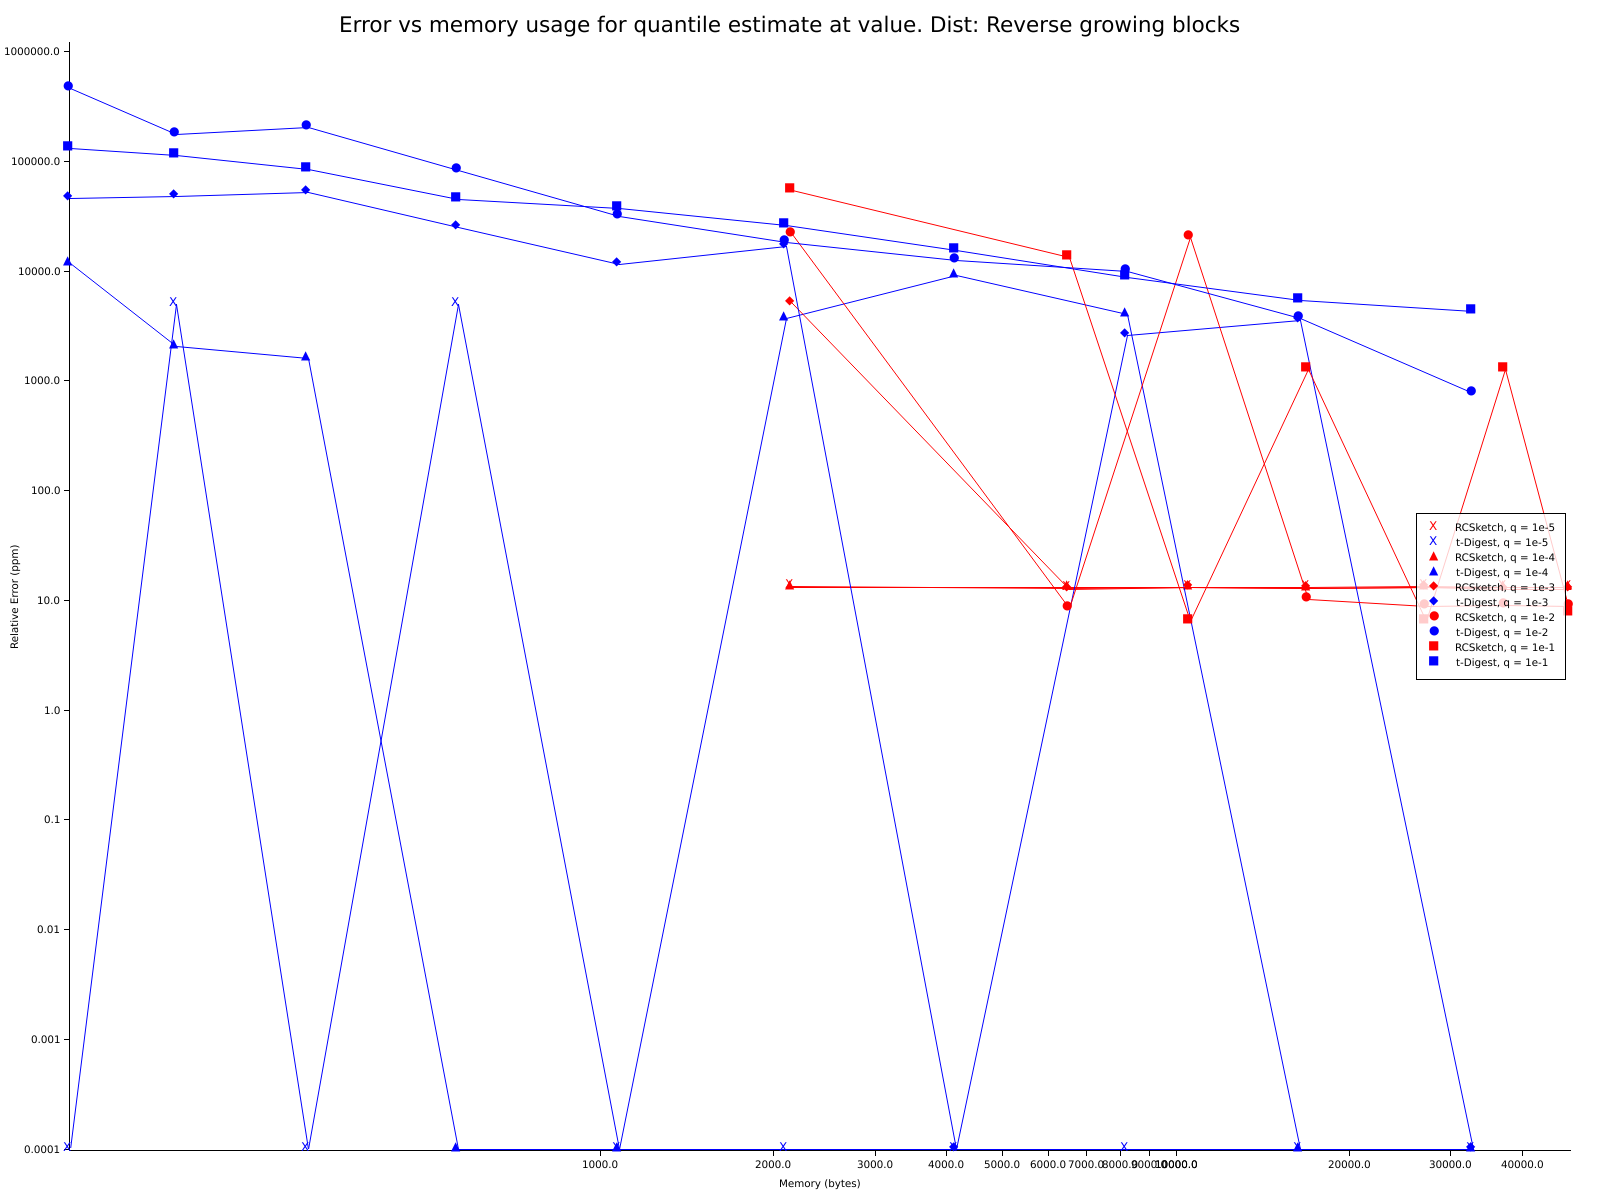
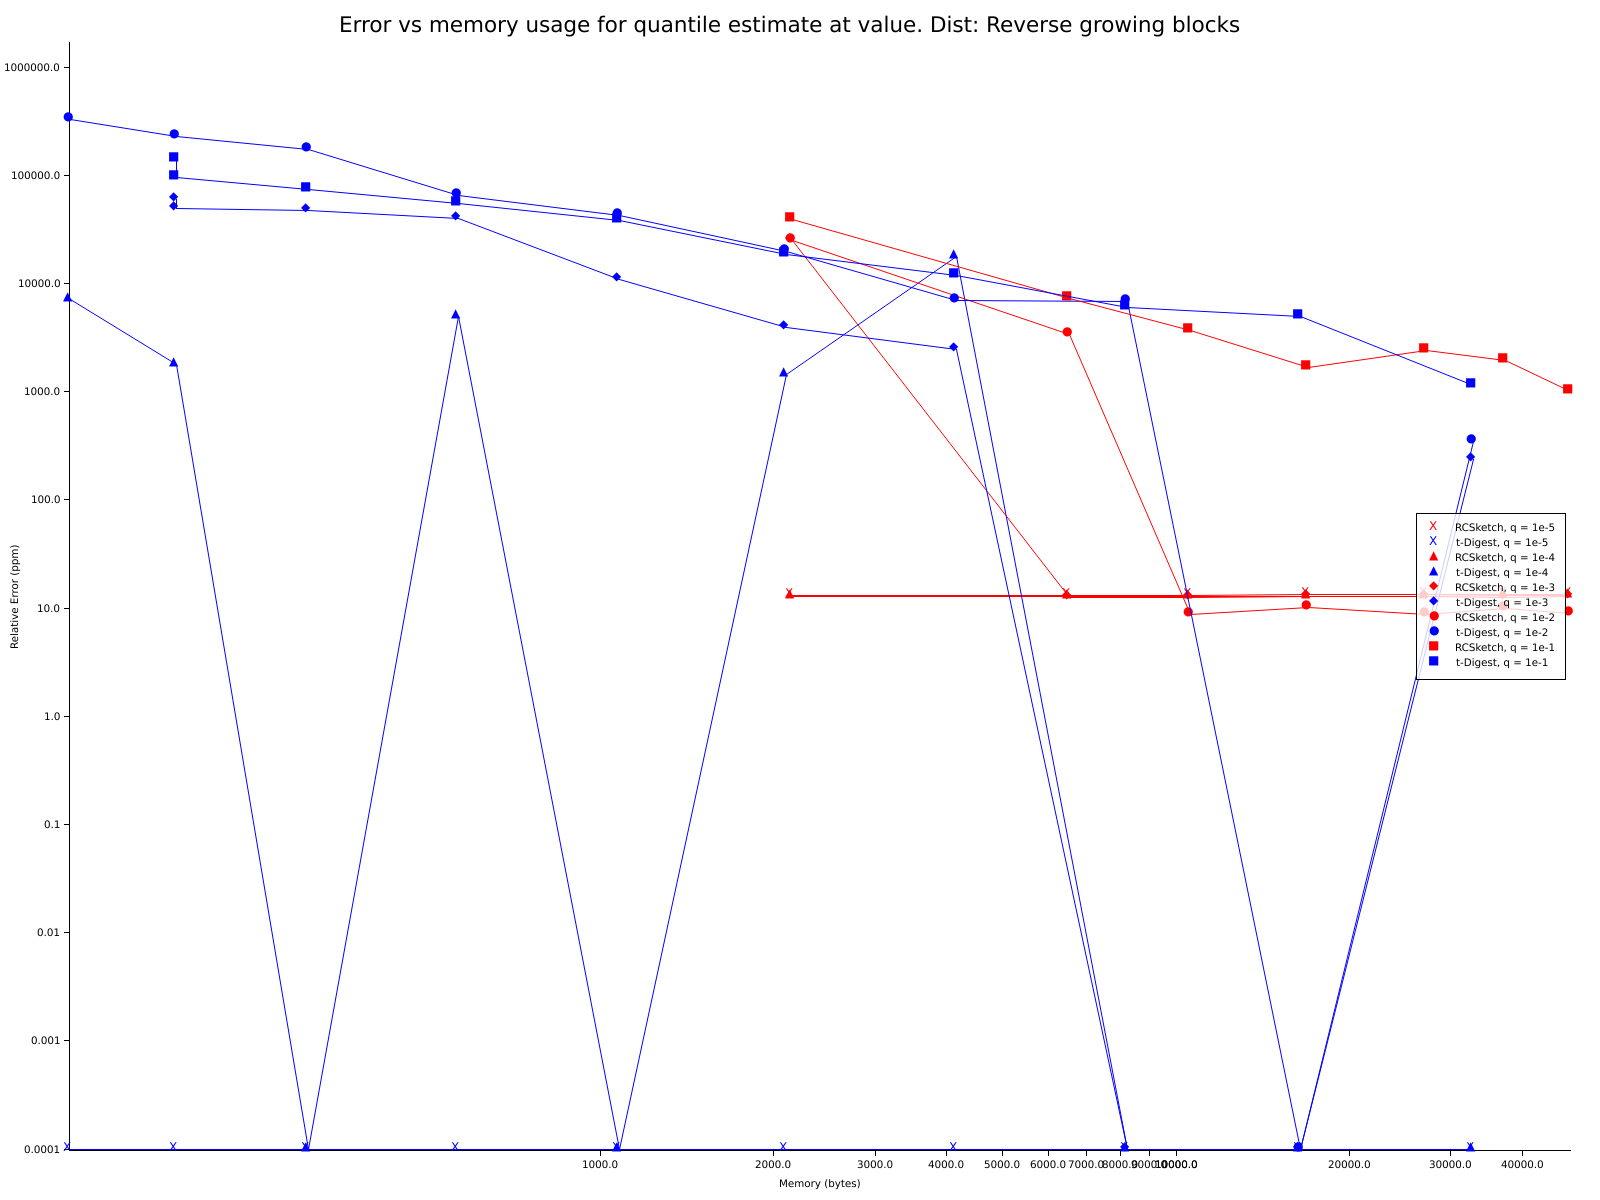
Test more distributions

diff --git a/examples/accuracy.rs b/examples/accuracy.rs
@@ -3,7 +3,7 @@ use approximate_quantiles::t_digest::{scale_functions, t_digest::TDigest};
 use approximate_quantiles::traits::{Digest, OwnedSize};
 use approximate_quantiles::util::linear_digest::LinearDigest;
 use approximate_quantiles::util::{
-    gen_reverse_growing_blocks_vec, gen_uniform_exp_vec, gen_uniform_tan_vec, gen_uniform_vec,
+    gen_growing_blocks_vec, gen_uniform_exp_vec, gen_uniform_tan_vec, gen_uniform_vec,
     opt_accuracy_parameter, sample_digest_accuracy,
 };
 use num_traits::{Float, NumAssignOps};
@@ -98,7 +98,7 @@ where
         })
         .flatten()
         .collect();
-    println!("{:?}", y_values);
+    // println!("{:?}", y_values);
     let y_values_range = fitting_range(y_values.iter());
     let x_values: Vec<f64> = series[0..1]
         .iter()
@@ -108,7 +108,7 @@ where
 
     // println!("{} {} {} {}", min_x, max_x, min_y, max_y);
     // let mut colors = (0..).map(Palette99::pick);
-    println!("{:?}", &y_values_range);
+    // println!("{:?}", &y_values_range);
     let mut chart = ChartBuilder::on(&root)
         .margin(15)
         .margin_right(30)
@@ -162,7 +162,7 @@ pub fn plot_line_graph<T>(
     show_error_bars: bool,
 ) -> Result<(), Box<dyn Error>>
 where
-    T: Float,
+    T: Float + std::fmt::Debug,
 {
     let root = BitMapBackend::new(output_path, (1600, 1200)).into_drawing_area();
     let marker_size = 14;
@@ -279,6 +279,10 @@ where
             })
             .collect();
 
+        data_stats
+            .iter()
+            .for_each(|ds| println!("{} {} {:?} {:?}", title, s.name, ds.x, ds.y_mean));
+
         let line_element = chart
             .draw_series(LineSeries::new(
                 data_stats.iter().map(|data_stat| {
@@ -369,13 +373,31 @@ where
 {
     vec![
         (
-            "Reverse growing blocks".to_string(),
-            Box::new(|input_size| gen_reverse_growing_blocks_vec(input_size)),
+            "Growing blocks".to_string(),
+            Box::new(|input_size| gen_growing_blocks_vec(input_size)),
         ),
         (
             "Reverse exponential".to_string(),
             Box::new(|input_size| gen_uniform_exp_vec(input_size, F::from(1.0).unwrap())),
         ),
+        (
+            "Uniform".to_string(),
+            Box::new(|input_size| gen_uniform_vec(input_size)),
+        ),
+        (
+            "Tan".to_string(),
+            Box::new(|input_size| gen_uniform_tan_vec(input_size)),
+        ),
+        // Made no impact
+        // (
+        //     "Uniform blocks".to_string(),
+        //     Box::new(|input_size| {
+        //         gen_uniform_vec::<F>(input_size)
+        //             .into_iter()
+        //             .map(|x| (x * F::from(1_000_000.0).unwrap()) / F::from(1_000.0).unwrap())
+        //             .collect()
+        //     }),
+        // ),
     ]
 }
 
@@ -493,6 +515,13 @@ where
     let test_func =
         |quantile: T| move |digest: &mut dyn Digest<T>| digest.est_value_at_quantile(quantile);
 
+    let error_func = |a, b| {
+        T::max(
+            T::from(1.0).unwrap(),
+            relative_error(a, b) * T::from(1e6).unwrap(),
+        )
+    };
+
     let create_rcsketch = |accuracy_param: T| {
         move |dataset: &[T]| {
             let mut digest = RCSketch::new(dataset.len(), accuracy_param.to_usize().unwrap());
@@ -545,7 +574,7 @@ where
                 create_rcsketch(rcsketch_param),
                 || dataset_func(input_size),
                 test_func(T::from(*i).unwrap()),
-                |a, b| relative_error(a, b) * T::from(1e6).unwrap(),
+                error_func,
                 100,
             )
             .unwrap();
@@ -565,7 +594,7 @@ where
                 create_compact_avg_rcsketch(rcsketch_param),
                 || dataset_func(input_size),
                 test_func(T::from(*i).unwrap()),
-                |a, b| relative_error(a, b) * T::from(1e6).unwrap(),
+                error_func,
                 100,
             )
             .unwrap();
@@ -585,7 +614,7 @@ where
                 create_t_digest(t_digest_param),
                 || dataset_func(input_size),
                 test_func(T::from(*i).unwrap()),
-                |a, b| relative_error(a, b) * T::from(1e6).unwrap(),
+                error_func,
                 100,
             )
             .unwrap();
@@ -622,6 +651,13 @@ where
 {
     let test_func =
         |value: T| move |digest: &mut dyn Digest<T>| digest.est_quantile_at_value(value);
+
+    let error_func = |a, b| {
+        T::max(
+            T::from(1.0).unwrap(),
+            relative_error(a, b) * T::from(1e6).unwrap(),
+        )
+    };
 
     let create_rcsketch = |accuracy_param: T| {
         move |dataset: &[T]| {
@@ -685,7 +721,7 @@ where
                 create_rcsketch(rcsketch_param),
                 || dataset_func(input_size),
                 test_func(T::from(*i).unwrap()),
-                |a, b| relative_error(a, b) * T::from(1e6).unwrap(),
+                error_func,
                 100,
             )
             .unwrap();
@@ -705,7 +741,7 @@ where
                 create_compact_avg_rcsketch(rcsketch_param),
                 || dataset_func(input_size),
                 test_func(T::from(*i).unwrap()),
-                |a, b| relative_error(a, b) * T::from(1e6).unwrap(),
+                error_func,
                 100,
             )
             .unwrap();
@@ -725,7 +761,7 @@ where
                 create_t_digest(t_digest_param),
                 || dataset_func(input_size),
                 test_func(T::from(*i).unwrap()),
-                |a, b| relative_error(a, b) * T::from(1e6).unwrap(),
+                error_func,
                 100,
             )
             .unwrap();
@@ -761,6 +797,13 @@ where
 {
     let test_func =
         |value: T| move |digest: &mut dyn Digest<T>| digest.est_value_at_quantile(value);
+
+    let error_func = |a, b| {
+        T::max(
+            T::from(1.0).unwrap(),
+            relative_error(a, b) * T::from(1e6).unwrap(),
+        )
+    };
 
     let create_rcsketch = |accuracy_param: T| {
         move |dataset: &[T]| {
@@ -824,7 +867,7 @@ where
                     create_rcsketch(*rcsketch_param),
                     || dataset_func(input_size),
                     test_func(*quantile),
-                    |a, b| relative_error(a, b) * T::from(1e6).unwrap(),
+                    error_func,
                     100,
                 )
                 .unwrap();
@@ -847,7 +890,7 @@ where
                     create_t_digest(*t_digest_param),
                     || dataset_func(input_size),
                     test_func(*quantile),
-                    |a, b| relative_error(a, b) * T::from(1e6).unwrap(),
+                    error_func,
                     100,
                 )
                 .unwrap();
@@ -889,6 +932,13 @@ where
     let test_func =
         |value: T| move |digest: &mut dyn Digest<T>| digest.est_value_at_quantile(value);
 
+    let error_func = |a, b| {
+        T::max(
+            T::from(1.0).unwrap(),
+            relative_error(a, b) * T::from(1e6).unwrap(),
+        )
+    };
+
     let create_rcsketch = |accuracy_param: T| {
         move |dataset: &[T]| {
             let mut digest = RCSketch::new(dataset.len(), accuracy_param.to_usize().unwrap());
@@ -928,7 +978,7 @@ where
     //    let input_sizes = [10_000, 100_000, 1_000_000];
     let input_sizes = [
         10_000,
-        200_000,
+        20_000,
         40_000,
         60_000,
         80_000,
@@ -948,6 +998,9 @@ where
         60_000_000,
         80_000_000,
         100_000_000,
+        200_000_000,
+        300_000_000,
+        400_000_000,
     ];
 
     // let rc_sketch_mem_size = |input_size| {
@@ -968,8 +1021,8 @@ where
                     create_rcsketch(rcsketch_param),
                     || dataset_func(*input_size),
                     test_func(*quantile),
-                    |a, b| relative_error(a, b) * T::from(1e6).unwrap(),
-                    100,
+                    error_func,
+                    10,
                 )
                 .unwrap();
                 s.push((T::from(*input_size).unwrap(), accuracy_measurements));
@@ -988,8 +1041,8 @@ where
                     create_t_digest(t_digest_param),
                     || dataset_func(*input_size),
                     test_func(*quantile),
-                    |a, b| relative_error(a, b) * T::from(1e6).unwrap(),
-                    100,
+                    error_func,
+                    10,
                 )
                 .unwrap();
                 s.push((T::from(*input_size).unwrap(), accuracy_measurements));
@@ -1022,7 +1075,7 @@ where
 
 fn plot_memory_usage_against_compression_parameter<T>()
 where
-    T: Float + Sync + Send + NumAssignOps,
+    T: Float + Sync + Send + NumAssignOps + std::fmt::Debug,
 {
     let create_rcsketch = |dataset: &[T], param: T| {
         let mut digest = RCSketch::new(dataset.len(), param.to_usize().unwrap());
@@ -1115,7 +1168,7 @@ where
 
 fn plot_memory_usage_against_input_size<T>()
 where
-    T: Float + Sync + Send + NumAssignOps,
+    T: Float + Sync + Send + NumAssignOps + std::fmt::Debug,
 {
     let create_rcsketch = |dataset: &[T], param: T| {
         let mut digest = RCSketch::new(dataset.len(), param.to_usize().unwrap());
@@ -1218,13 +1271,13 @@ where
 }
 
 fn main() {
-    value_error_against_quantile::<f32>();
-    quantile_error_against_value::<f32>();
+    // value_error_against_quantile::<f32>();
+    // quantile_error_against_value::<f32>();
     // determine_required_parameter::<f32>();
     // determine_required_parameter::<f64>();
     plot_error_against_mem_usage::<f32>();
     // plot_error_against_input_size::<f32>();
-    plot_memory_usage_against_compression_parameter::<f32>();
-    plot_memory_usage_against_input_size::<f32>();
+    // plot_memory_usage_against_compression_parameter::<f32>();
+    // plot_memory_usage_against_input_size::<f32>();
     println!("Complete");
 }

diff --git a/src/util/mod.rs b/src/util/mod.rs
@@ -61,11 +61,11 @@ where
         .collect();
 }
 
-/// Generate a vector of values from a reversed growing blocks distribution
+/// Generate a vector of values from a growing blocks distribution
 /// See: Accuracy plots > input at https://datasketches.apache.org/docs/Quantiles/KllSketchVsTDigest.html
 /// # Arguments
 /// `size` Size of the vector to generate
-pub fn gen_reverse_growing_blocks_vec<F>(size: i32) -> Vec<F>
+pub fn gen_growing_blocks_vec<F>(size: i32) -> Vec<F>
 where
     F: Float,
 {
